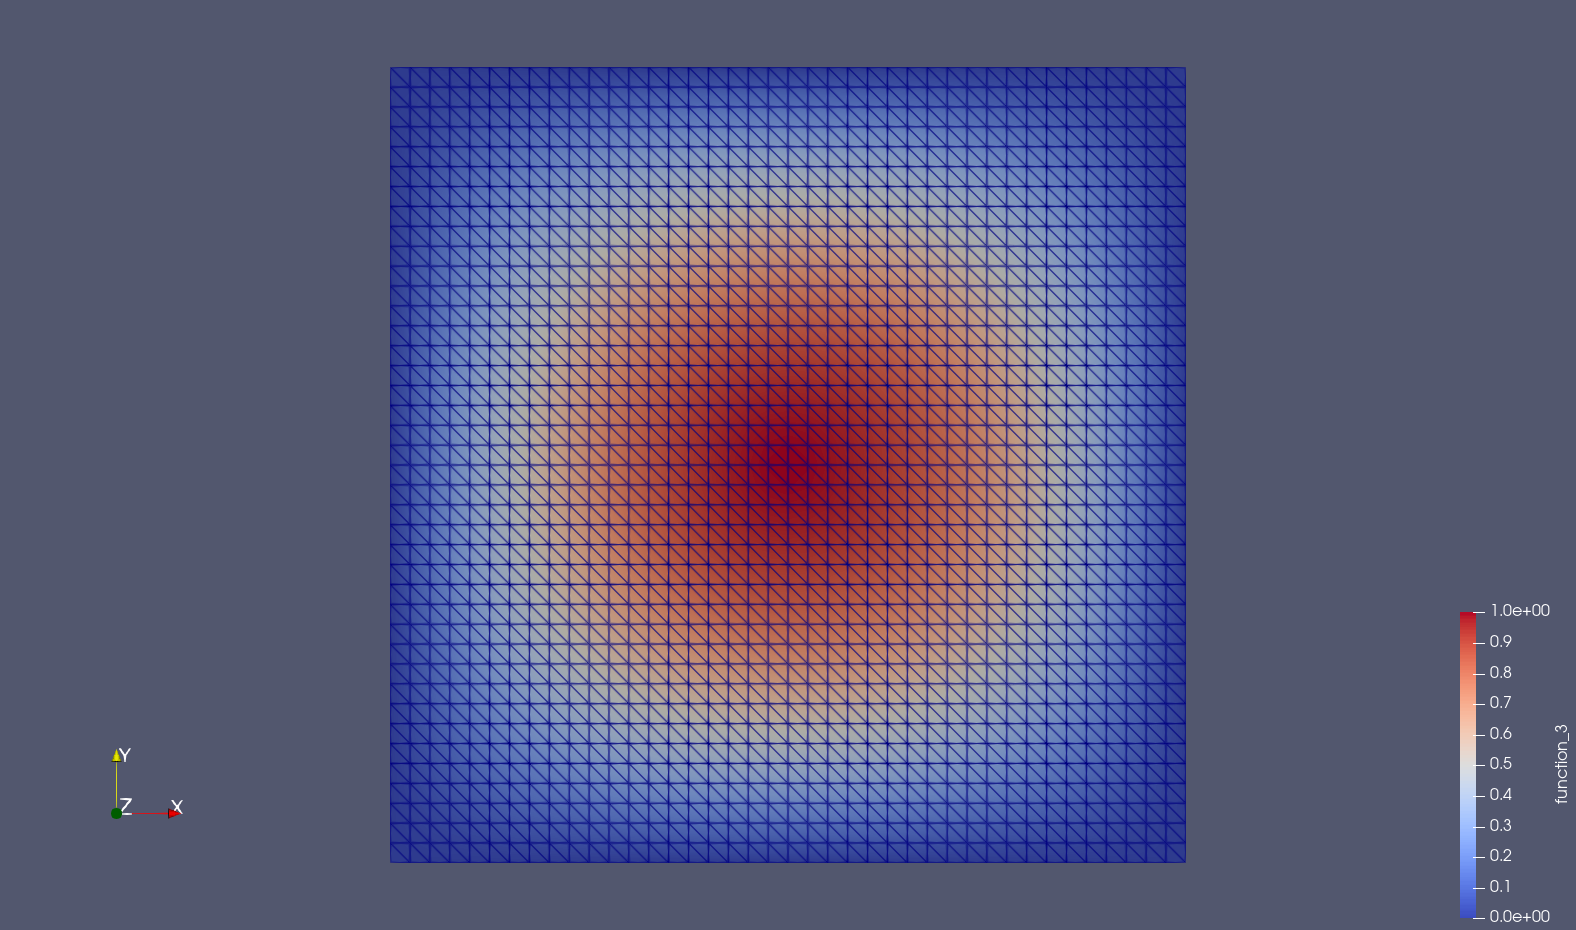
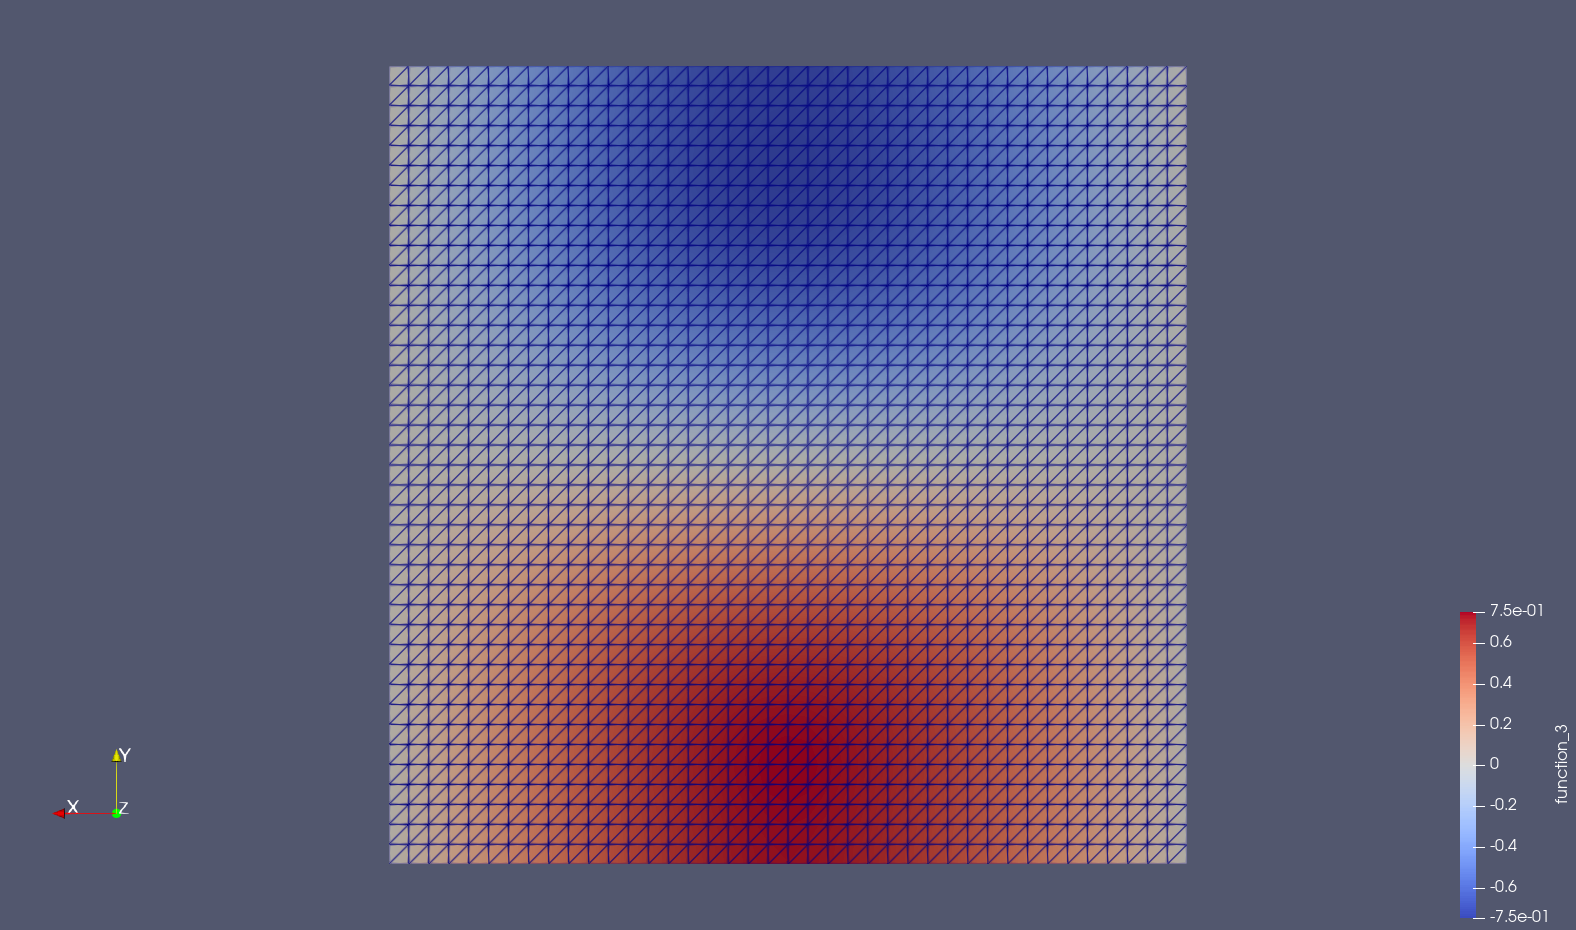
images

diff --git a/poisson.py b/poisson.py
@@ -17,7 +17,7 @@ x, y = SpatialCoordinate(mesh)
 
 if problem == 1:
     a = inner(grad(v), grad(u))*dx
-    L = 2*pi**2*sin(pi*x)*sin(pi*y)*v*dx
+    L = 2*pi**2*sin(pi*x)*sin(2*pi*y)*v*dx
     bcs = [DirichletBC(V, 0., 1),
            DirichletBC(V, 0., 2)]
     name = 'vanilla'
